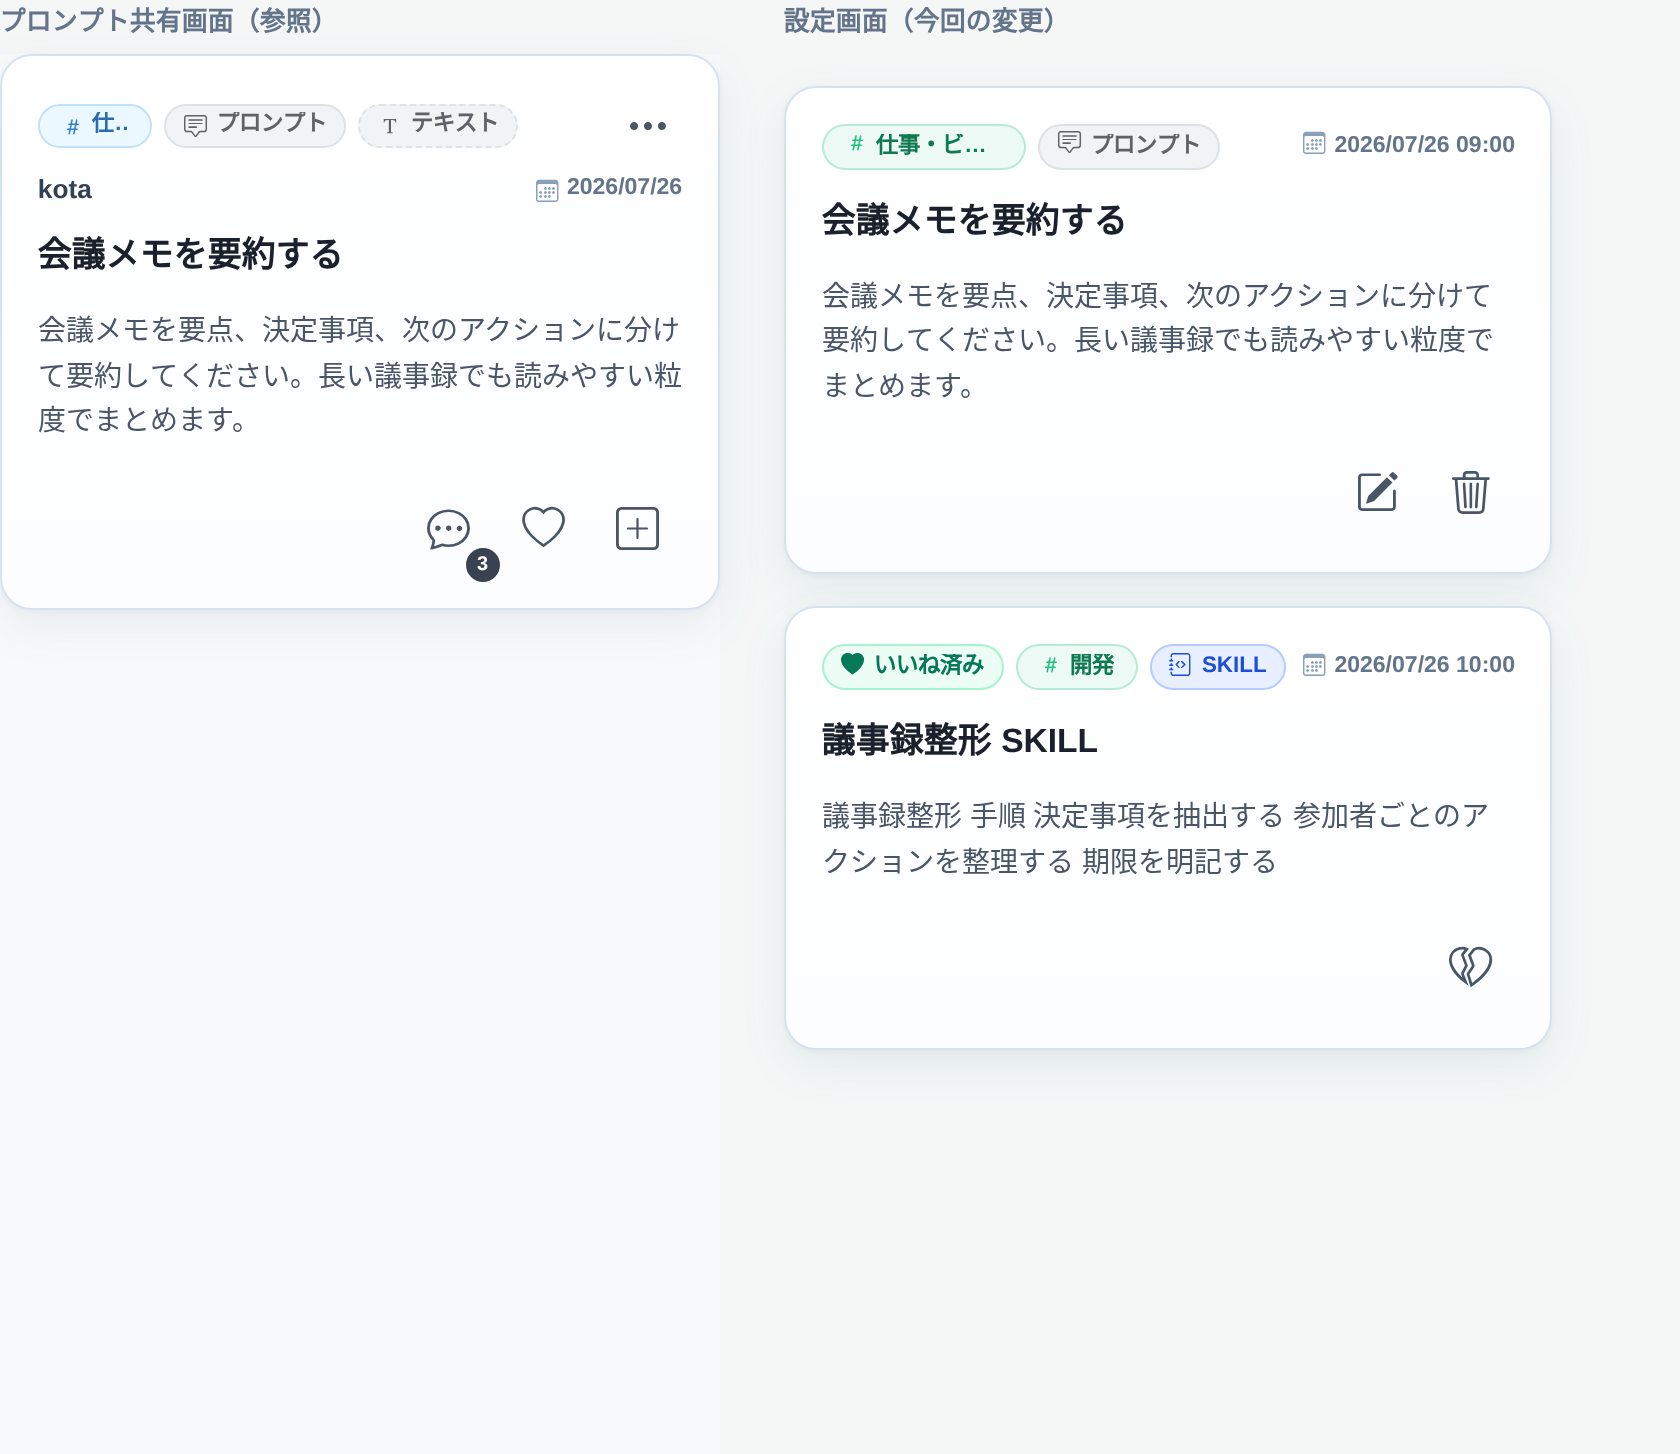
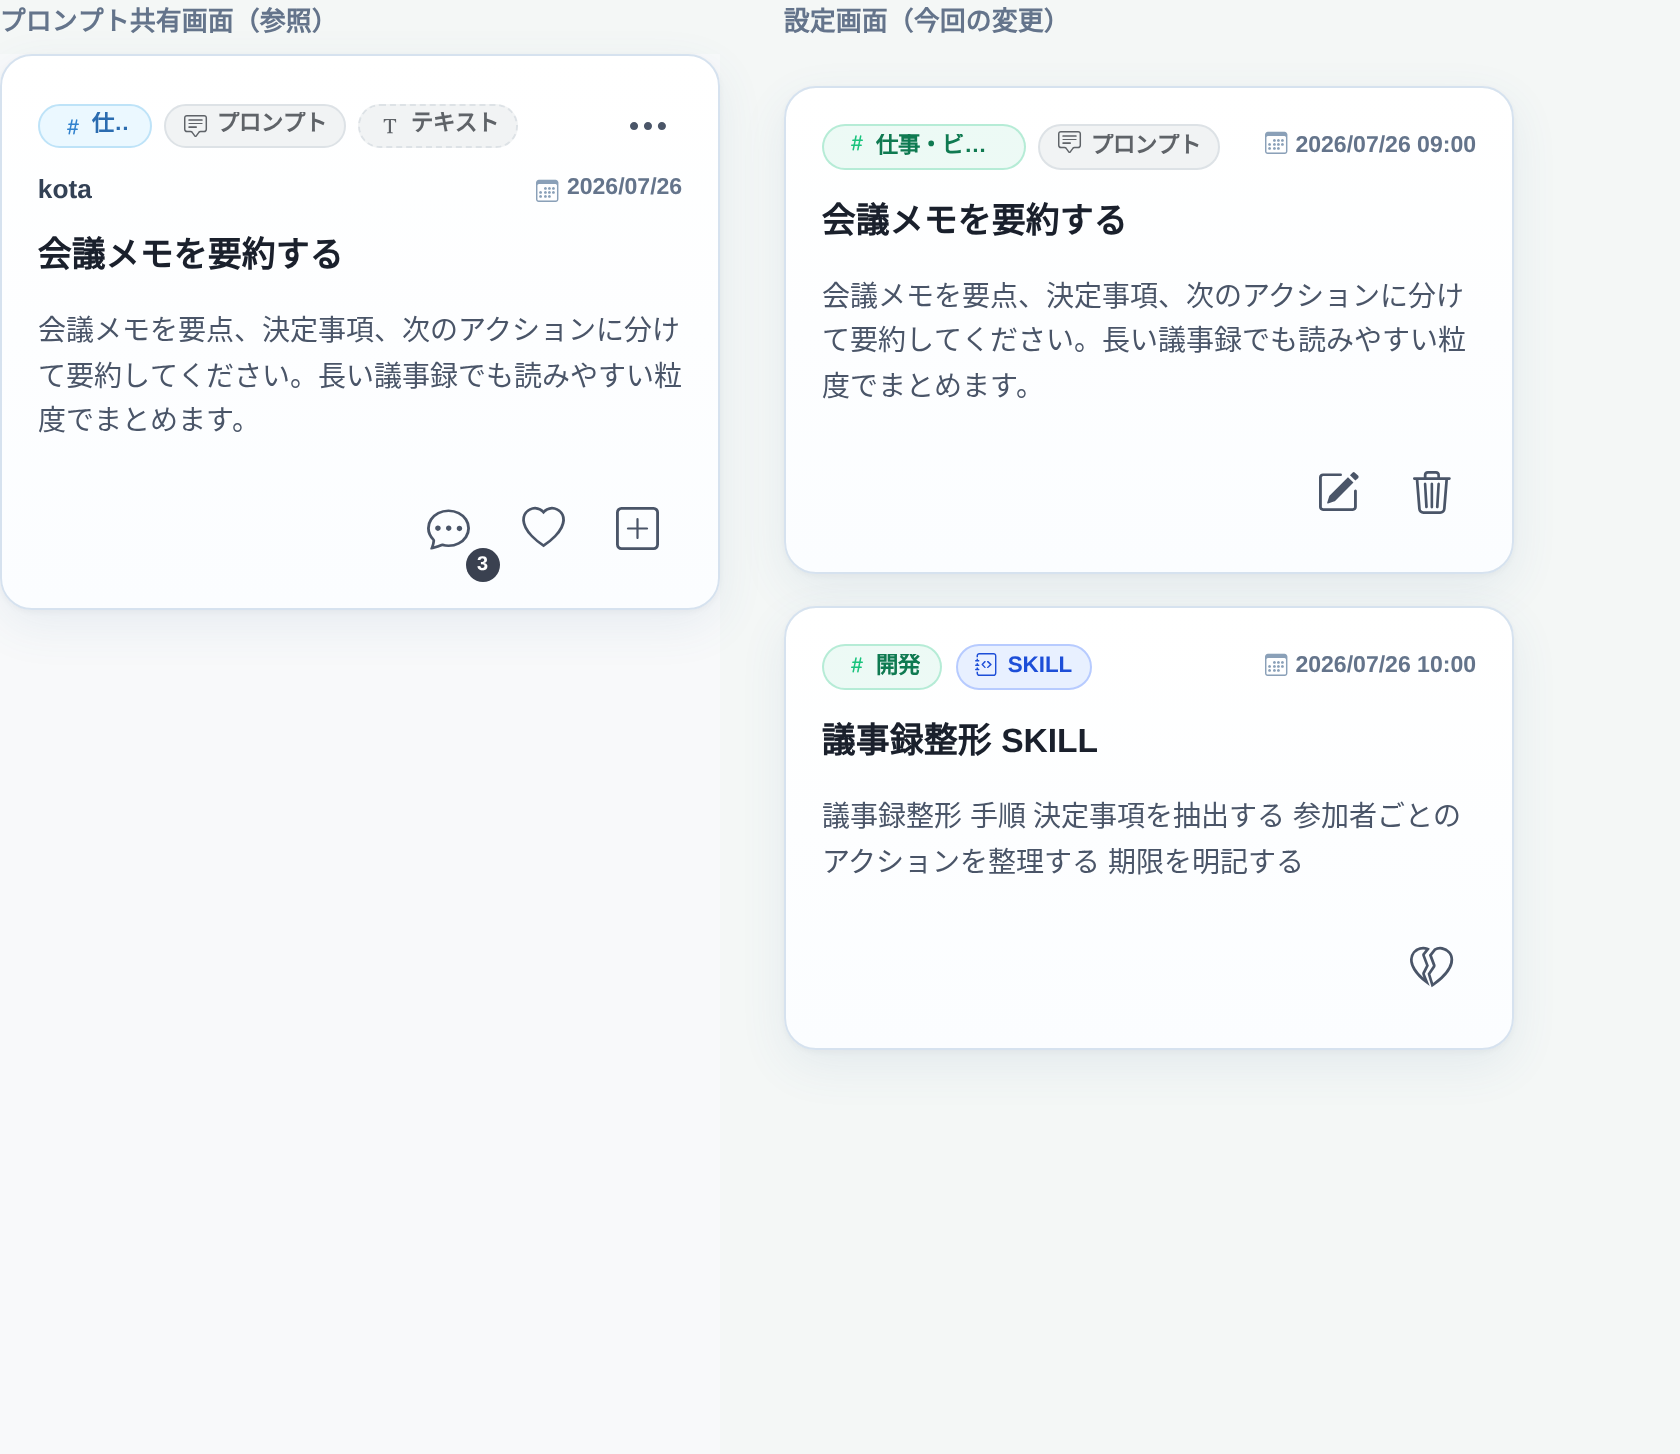
Drop the "いいね済み" badge from liked prompt cards
The badge was redundant: the card already lives under the "いいねした
プロンプト" section heading, and the footer's unlike button (heart-break
icon) already communicates the liked state. Removing it also frees the
saved-badge slot the shared card shell had, so both card types now show
the same badge row shape (category + format pill only).

diff --git a/frontend/components/settings/prompt_cards.tsx b/frontend/components/settings/prompt_cards.tsx
@@ -26,7 +26,6 @@ function SettingsPromptCard({
   contentSource,
   contentFormat,
   categoryLabel,
-  savedBadge,
   dateLabel,
   dateTime,
   onOpenDetail,
@@ -37,7 +36,6 @@ function SettingsPromptCard({
   contentSource: string;
   contentFormat: string;
   categoryLabel: string;
-  savedBadge?: ReactNode;
   dateLabel: string;
   dateTime?: string;
   onOpenDetail: () => void;
@@ -68,7 +66,6 @@ function SettingsPromptCard({
       >
         <div className="prompt-card__header">
           <div className="prompt-card__badges">
-            {savedBadge}
             {categoryLabel ? (
               <span className="prompt-card__category-pill">
                 <i className="bi bi-hash" aria-hidden="true"></i>
@@ -182,12 +179,6 @@ export function LikedPromptCard({
       contentSource={isSkill ? entry.skillMarkdown : entry.content}
       contentFormat={entry.contentFormat}
       categoryLabel={categoryLabel}
-      savedBadge={
-        <span className="prompt-card__type-pill prompt-card__type-pill--saved">
-          <i className="bi bi-heart-fill" aria-hidden="true"></i>
-          <span>{t("promptShare.liked")}</span>
-        </span>
-      }
       dateLabel={likedAtLabel}
       dateTime={entry.likedAt}
       onOpenDetail={() => onPreview(entry)}

diff --git a/frontend/public/static/css/pages/user_settings/user_settings.css b/frontend/public/static/css/pages/user_settings/user_settings.css
@@ -1474,14 +1474,6 @@
   color: #1d4ed8;
 }
 
-/* いいね済みバッジは設定ページのアクセントカラー（グリーン）で他のピルと区別する */
-/* The liked badge keeps the settings page accent color so it stands apart from the other pills */
-:where(body.settings-page, .user-settings-page) .prompt-card__type-pill--saved {
-  border: 1px solid #a7f3d0;
-  background: #ecfdf5;
-  color: #047857;
-}
-
 :where(body.settings-page, .user-settings-page) .prompt-card__title {
   margin: 0;
   color: #1a202c;
@@ -2973,12 +2965,6 @@ body.settings-page :where(
   background: rgba(59, 130, 246, 0.2);
   border-color: rgba(96, 165, 250, 0.32);
   color: #93c5fd;
-}
-
-[data-theme="dark"] :where(body.settings-page, .user-settings-page) .prompt-card__type-pill--saved {
-  background: rgba(25, 195, 125, 0.18);
-  border-color: rgba(110, 231, 183, 0.32);
-  color: #6ee7b7;
 }
 
 [data-theme="dark"] :where(body.settings-page, .user-settings-page) .prompt-card .prompt-action-btn {

diff --git a/frontend/tests/prompt_card_preview.component.test.tsx b/frontend/tests/prompt_card_preview.component.test.tsx
@@ -118,12 +118,13 @@ describe("設定画面のプロンプトカード詳細", () => {
     expect(container.querySelector(".prompt-card__preview-sections")).toBeNull();
   });
 
-  it("いいねしたプロンプトにはいいね済みバッジを表示する", () => {
+  it("いいねしたプロンプトのカードには「いいね済み」バッジを表示しない", () => {
     const { container } = render(
       <LikedPromptCard entry={likedPrompt} onPreview={vi.fn()} onDelete={vi.fn()} />
     );
 
-    expect(container.querySelector(".prompt-card__type-pill--saved")?.textContent).toContain("いいね済み");
+    expect(container.querySelector(".prompt-card__type-pill--saved")).toBeNull();
+    expect(screen.queryByText("いいね済み")).not.toBeInTheDocument();
     expect(container.querySelector(".prompt-card__category-pill")?.textContent).toContain("仕事・ビジネス");
   });
 
